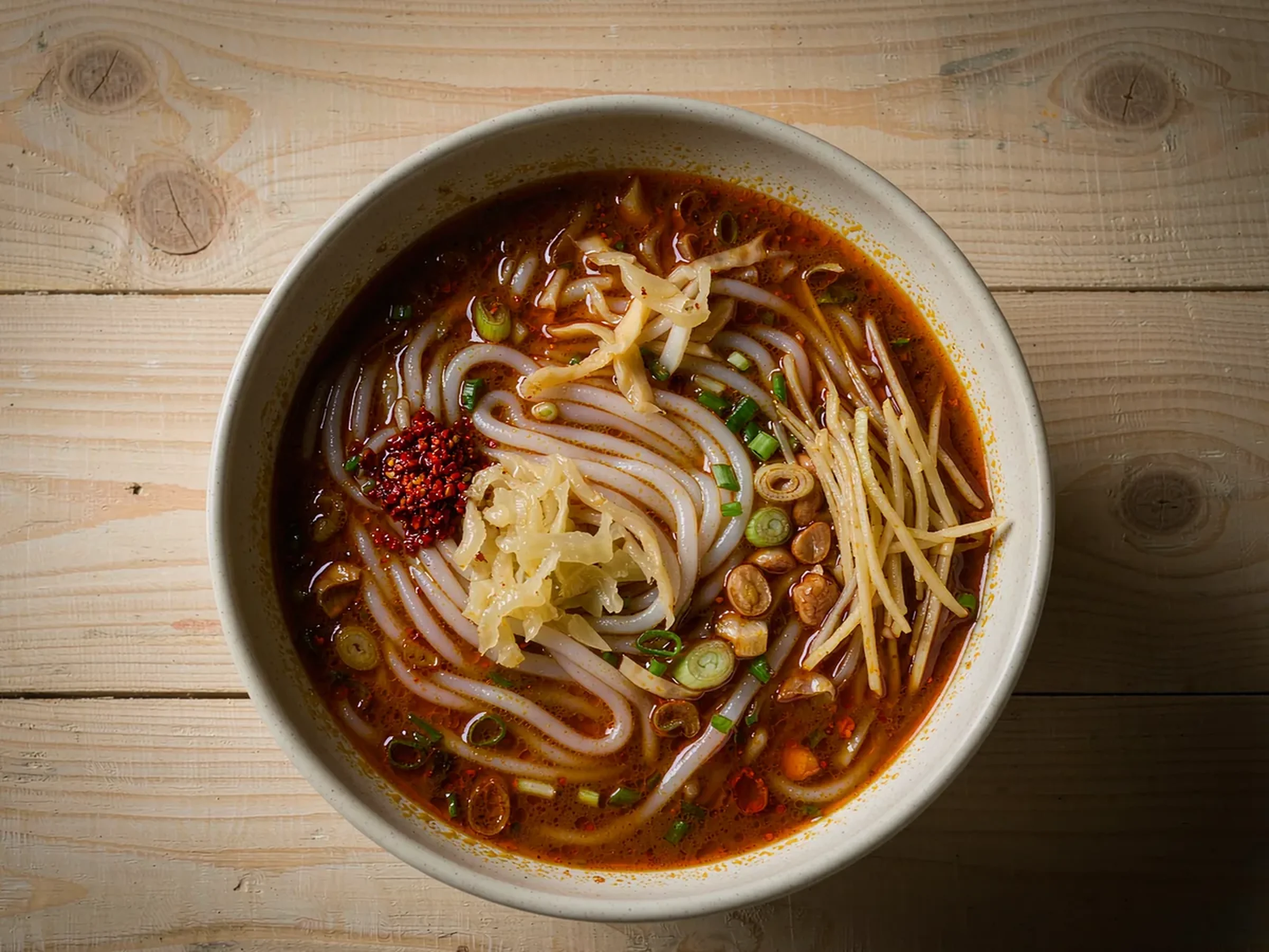
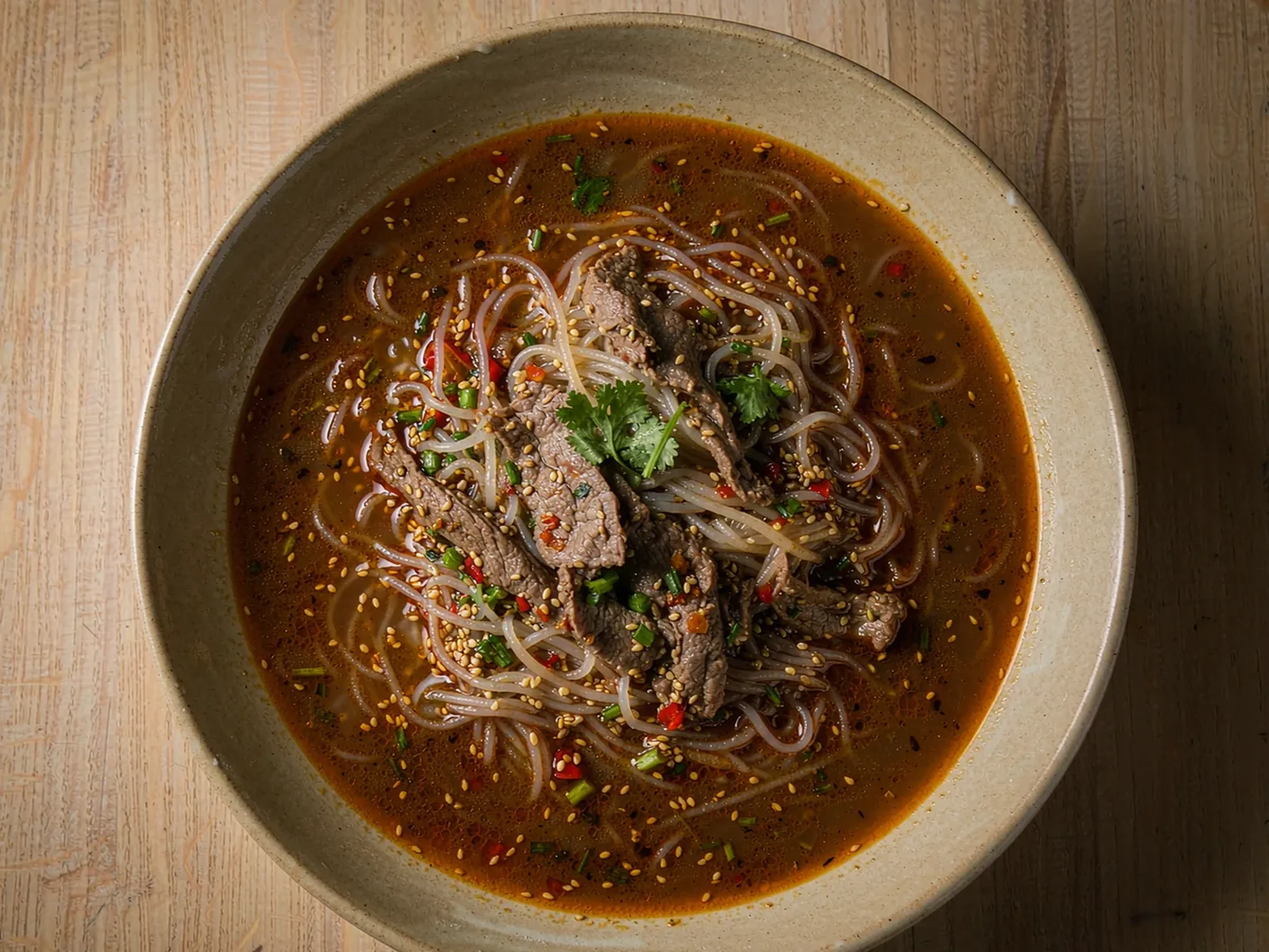
补 24 道菜配图并同步本地数据
- 彭水：猪肉炖粉条、太子豆花、涪翁烧白、苗乡米粉、苗乡口口脆、绿野鲜鲊、晶丝山凤汤、摩围山珍
- 京津江南：驴打滚、糖火烧、鸭血粉丝汤、定胜糕、土笋冻、三鲜豆皮、臭豆腐、糖油粑粑
- 川渝西北：钟水饺、三大炮、蛋烘糕、羊肉泡馍、兰州牛肉面、过桥米线、丝娃娃、胡辣汤
- 有图 201 → 225 / 237，缺图剩 12 道（生成接口限流，暂停）

diff --git a/internal/api/version_gen.go b/internal/api/version_gen.go
@@ -4,6 +4,6 @@ package api
 
 func init() {
 	Version = "1.0.2.2"
-	ReleaseNote = "【2026-11-18 21:54】\n\n【优化】\n- 15 道菜的模板化描述改为独有文案，237 道描述全部唯一\n- 再补 8 道菜配图（煎饼果子、生煎包、肠粉、叉烧包、热干面、肉夹馍、凉皮、螺蛳粉），缺图 64 → 36\n- 本地 dishes.json 与容器同步：237 道全量、201 张有图引用，避免从本地恢复时回退\n\n【2026-11-17 22:50】\n\n【新增】\n- 菜谱搜索命中关键字高亮\n- 骰子 PK 结果加恭喜语\n- 补 20 道菜配图（缺图 64 → 44）\n\n【优化】\n- API 回归测试 8.8% → 39.6%"
-	BuildTime = "2026-11-18 21:55:16"
+	ReleaseNote = "【优化】\n- 补 24 道菜配图：彭水 8 道、京津江南点心 8 道、川渝与西北小吃 8 道\n- 有图菜品 201 → 225 / 237，缺图剩 12 道"
+	BuildTime = "2026-11-19 15:41:36"
 }

diff --git a/docs/PENDING.md b/docs/PENDING.md
@@ -2,3 +2,9 @@
 
 > 每次部署用 `--note` 记一条，版本号不变；用户确认后 `--publish` 一次性发版并推送。
 
+## 2026-11-19 15:41
+
+**优化**
+- 补 24 道菜配图：彭水 8 道、京津江南点心 8 道、川渝与西北小吃 8 道
+- 有图菜品 201 → 225 / 237，缺图剩 12 道
+
